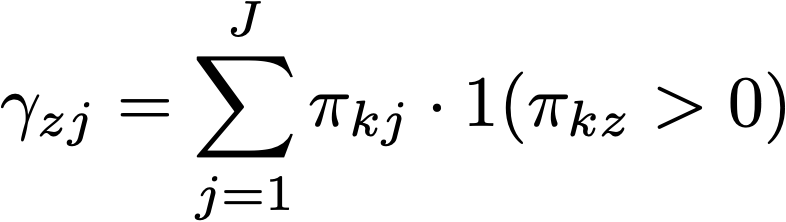
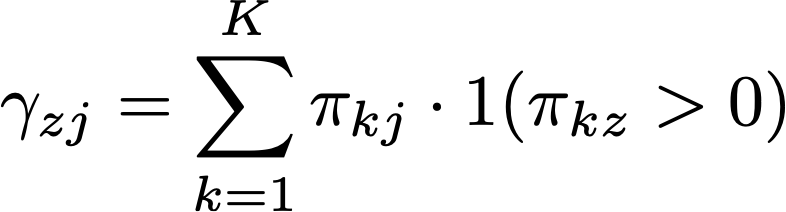
fixing typos and indexing in equation

diff --git a/README.md b/README.md
@@ -245,7 +245,7 @@ methods will yield different HHI measures for the same market geography*
     patients going to each hospital)
 
 4.  **Hospital HHI Based on Jointly Competitive Geographies**: This is
-    an alternative method to construct hosptial-level HHIs that we
+    an alternative method to construct hospital-level HHIs that we
     develop here. The method essentially boils down to identifying the
     total number of patients in geographies (e.g., ZIP codes) in which a
     given hospital “competes” with other hospitals. The HHI measure is
@@ -397,17 +397,17 @@ admissions).**
 ## Calculating Hospital-Specific HHIs
 
 An alternative to directly calculating geographic HHIs is to first
-calculate hospital-specific HHIs and then aggregate these hosptial HHIs
+calculate hospital-specific HHIs and then aggregate these hospital HHIs
 to the geographic market level. This aggregation is based on a weighted
 average of hospital HHIs, with weights defined by the share of patients
 from the geography that are treated at each hospital.
 
-As noted above there are two ways one can construct hosptial-specific
+As noted above there are two ways one can construct hospital-specific
 HHIs. To demonstrate these methods it is useful to draw on some example
 data summarizing patient flows among ZIP codes and different hospitals.
 These data are represented in the matrix below. This matrix is
 representative of a **bipartite** network in which ZIP codes are linked
-with hospitals. The cells of this (hypothetical) biparite matrix
+with hospitals. The cells of this (hypothetical) bipartite matrix
 summarize the total number of patients traveling to four hospitals
 (columns) from 10 different ZIP codes (rows).
 
@@ -429,14 +429,14 @@ The Kessler-McClellan approach to hospital-specific HHI measures
 proceeds in two steps:
 
 1.  Calculate ZIP-specific HHI measures for k = 1, … , K ZIP codes.
-2.  For each hosptial J, construct a weighted average of these
+2.  For each hospital J, construct a weighted average of these
     ZIP-specific ZIP codes, with weights defined as the proportion of
     the hospital’s patients coming from that ZIP code.
 
 More formally, the total demand from ZIP *k* to hospital *j* is given by
 the sum of (predicted or otherwise exogenous) a measure
-ofpatients/amissions (indexed by *i*) from ZIP *k* who are treated in
-hosptial *j*. <!-- \[ -->
+ofpatients/admissions (indexed by *i*) from ZIP *k* who are treated in
+hospital *j*. <!-- \[ -->
 <!-- \pi_{kj}  = \sum_{\textrm{i in k}} \pi_{ij} --> <!-- \] -->
 
 <img src="figs/km-eq1.png" width="100px" />
@@ -454,28 +454,28 @@ to:
 
 ### Joint Competition Approach
 
-The KM approach to constructing hosptial-specific HHIs essentially boils
+The KM approach to constructing hospital-specific HHIs essentially boils
 down to asking: what is the average geographic HHI among patients
 treated by a given hospital?
 
 Another way to approach this is to ask a slightly different question:
-among geographies where a given hosptial competes with other hospitals
+among geographies where a given hospital competes with other hospitals
 for patients, what is the total market share of each hospital? We can
-then use *those* market shares to construct a hosptial-specific HHI
+then use *those* market shares to construct a hospital-specific HHI
 measure for that hospital. We will call this the **joint competition**
 approach to a hospital HHI.
 
 (Note that I am using the terms “competes” and “competition” somewhat
-loosely here, as all we know is that two hosptials draw in patients from
+loosely here, as all we know is that two hospitals draw in patients from
 the same ZIP; we do not know for certain whether they actually compete
 for these patients. As an extreme example, a children’s hospital and an
-adult general acute care hosptial may both draw in patients from the
+adult general acute care hospital may both draw in patients from the
 same ZIP, but it is unlikely that they are actually competing for
 patients. In the data used here, however, we are drawing on FFS Medicare
 patients–so it may be more realistic to assume two hospitals are
 competing for these patients.)
 
-More formally, the competition faced by a given hosptial (*z*) across
+More formally, the competition faced by a given hospital (*z*) across
 all j = 1, …, J hospitals can be expressed as
 
 <!-- \gamma_{zj} = \sum_{j=1}^J \pi_{kj} \cdot 1(\pi_{kz}>0) -->
@@ -501,11 +501,11 @@ table below.
 
 ### How do these approaches compare?
 
-The obvious first question to ask is: *why do these appraoches yield
+The obvious first question to ask is: *why do these approaches yield
 different HHI measures*? One reason essentially boils down to the
 difference between a sum of squares (KM) and a square of sums (JC). That
 is, the KM approach calculates the HHI at the ZIP level (i.e., sum of
-squared market shares in each ZIP), then constructs hosptial-specific
+squared market shares in each ZIP), then constructs hospital-specific
 HHIs based on a weighted sum. The JC approach, by comparison, first sums
 up the ZIP-level market shares, and then squares those market shares to
 construct the hospital-specific HHI.
@@ -589,10 +589,10 @@ following specific details.
     nearly identical HHI measures when total admissions were used, as
     shown in the plot below.
 
-  - For the Hospital HHI methods we first construct hosptial-specific
+  - For the Hospital HHI methods we first construct hospital-specific
     HHIs and then construct a weighted mean of these HHIs, with weights
     defined based on the fraction of geography-level patients who go to
-    each hosptial.
+    each hospital.
 
 ![](README_files/figure-gfm/unnamed-chunk-17-1.png)<!-- -->
 
@@ -653,9 +653,9 @@ market power.
 
 With these issues in mind, let’s now briefly explore the relationship
 between distance traveled and hospital market share. We will again draw
-on the 2017 hosptial-zip data from CMS. In particular, using these data
-we can, for each ZIP-hosptial comparison, calculate the approximate
-distance traveled (using ZIP centroids and hosptial latitude and
+on the 2017 hospital-zip data from CMS. In particular, using these data
+we can, for each ZIP-hospital comparison, calculate the approximate
+distance traveled (using ZIP centroids and hospital latitude and
 longitude data from AHA). We can also use the same data to calculate the
 market share by hospital system ID, and take a weighted average of the
 distance traveled (weighted by patient volume from the ZIP) by hospital
@@ -682,16 +682,16 @@ We see here some evidence that people from the same ZIP are willing to
 travel farther. At relatively low distances (e.g., within a few miles of
 difference) there is a positive relationship between distance traveled
 at market share. But then, at larger distances between the ZIP and the
-hosptial, this relationship attenuates and then becomes negative. So
+hospital, this relationship attenuates and then becomes negative. So
 more people from the same ZIP may be willing to travel farther–but not
 too far–to get to “better” hospitals. We can explore whether these
-longer-distance hosptials are of higher quality at some point later.
+longer-distance hospitals are of higher quality at some point later.
 
 ![](figs/01_check-endogeneity-distance.png)
 
 ## Market Concentration Over Time
 
-The file [R/animate-hosptial-hhi.R](R/animate-hospital-hhi.R) reads in
+The file [R/animate-hospital-hhi.R](R/animate-hospital-hhi.R) reads in
 the panel data set for HHI measures bassed on ZIP hospital flows
 aggregated to commuting zone and animates the change in HHI for each
 commuting zone since 2010. Note that in principle earlier years could be
